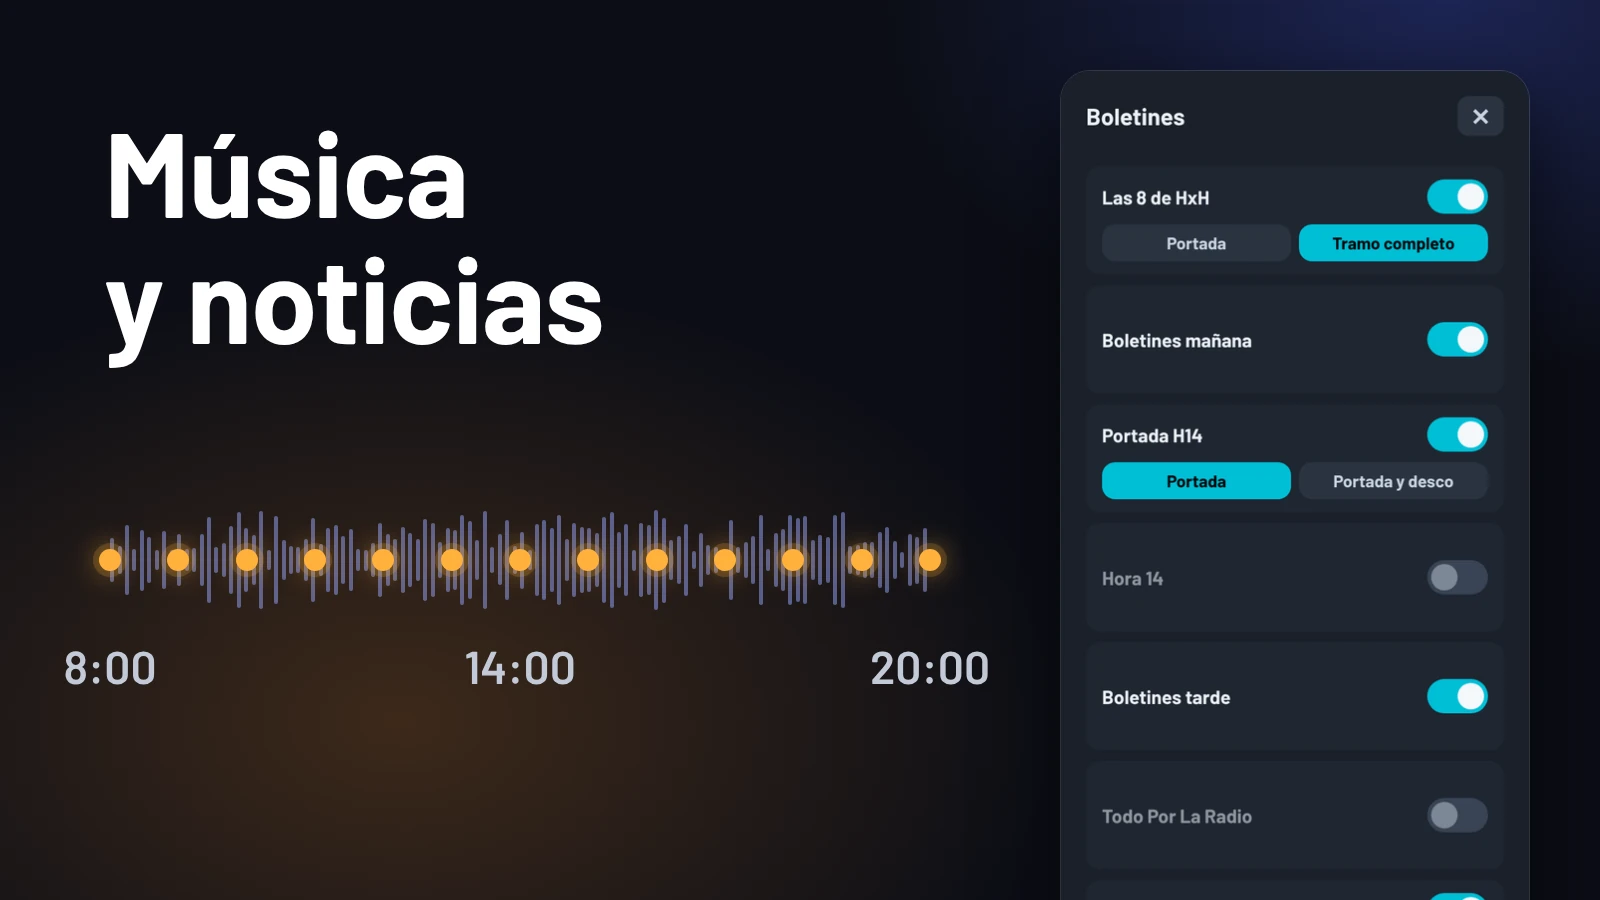
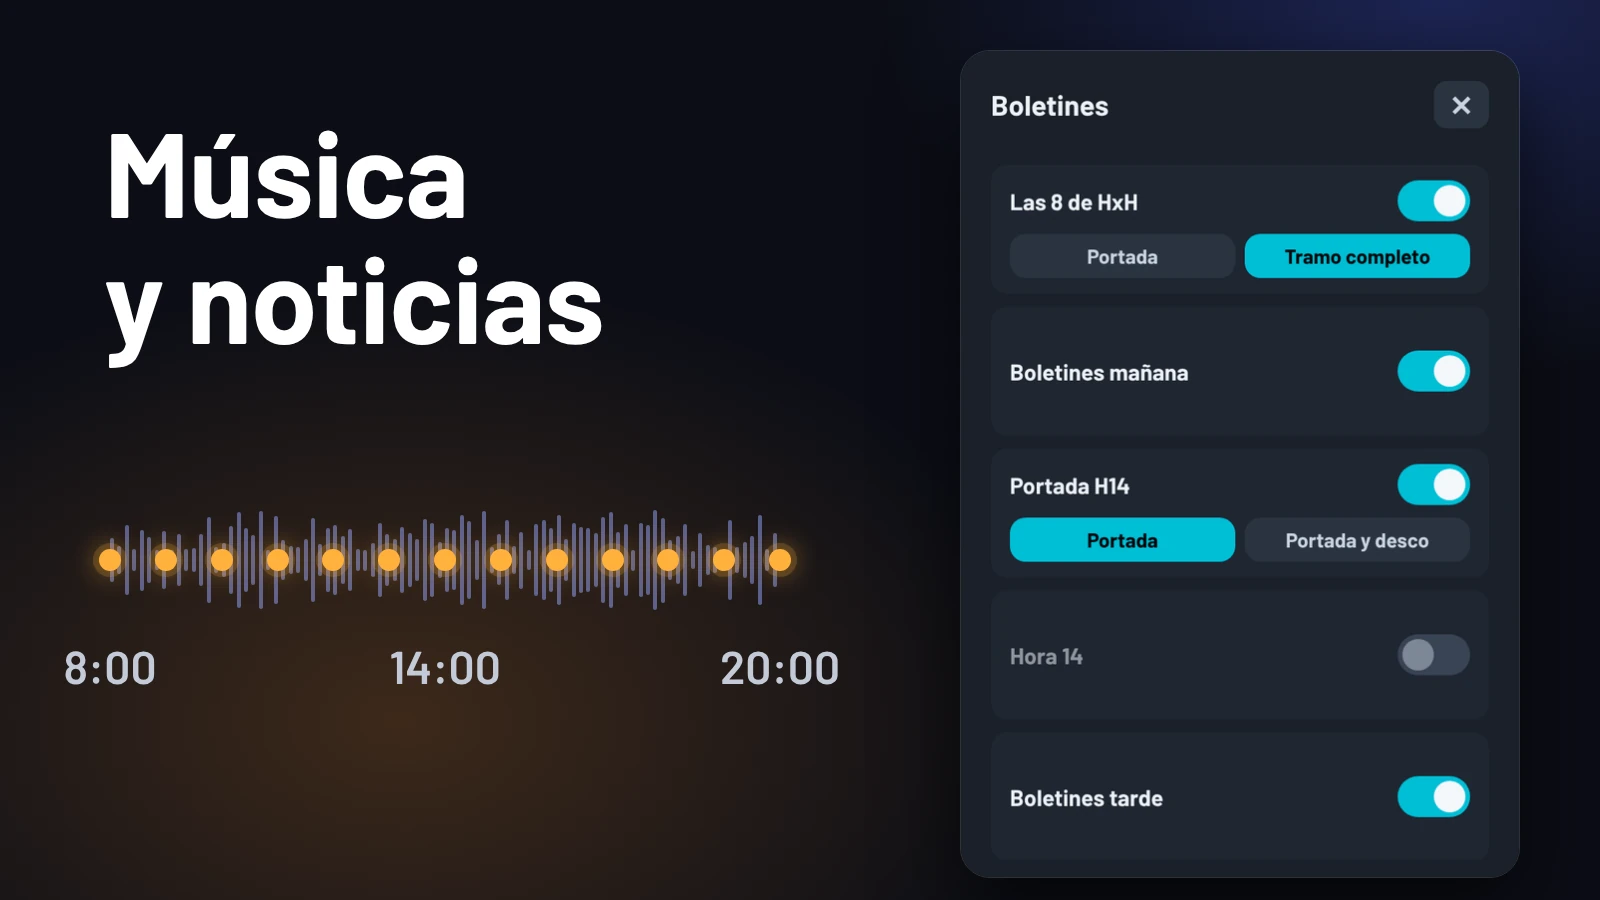
Capturas de la bienvenida: ventanas más grandes
- Sonido: ecualizador más grande, hasta Volumen
- Noticias: ventana más grande hasta Boletines tarde; barra más corta
- Instalar: presintonías por defecto desplegadas en lugar de Ajustes

Claude-Session: https://claude.ai/code/session_01XLSZwi69pX65SZXdG5ub3S

diff --git a/index.html b/index.html
@@ -249,7 +249,7 @@
           <p>Puedes escuchar música y conectar automáticamente con una emisora generalista cuando quieras. El modo conecta por defecto con las noticias de la SER de 8 a 20 horas, pero se puede personalizar.</p>
         </section>
         <section class="intro-step" data-step="4" hidden>
-          <img class="intro-img" src="img/cap5-wide.webp" alt="El icono de la app instalada y los ajustes" width="1600" height="900" loading="lazy">
+          <img class="intro-img" src="img/cap5-wide.webp" alt="El icono de la app instalada y las presintonías por defecto" width="1600" height="900" loading="lazy">
           <h2>Instala la app</h2>
           <p>Desde el menú de tu navegador, puedes instalar esta web como una aplicación más de tu móvil. Además, puedes exportar e importar tus preferencias entre dispositivos.</p>
         </section>
